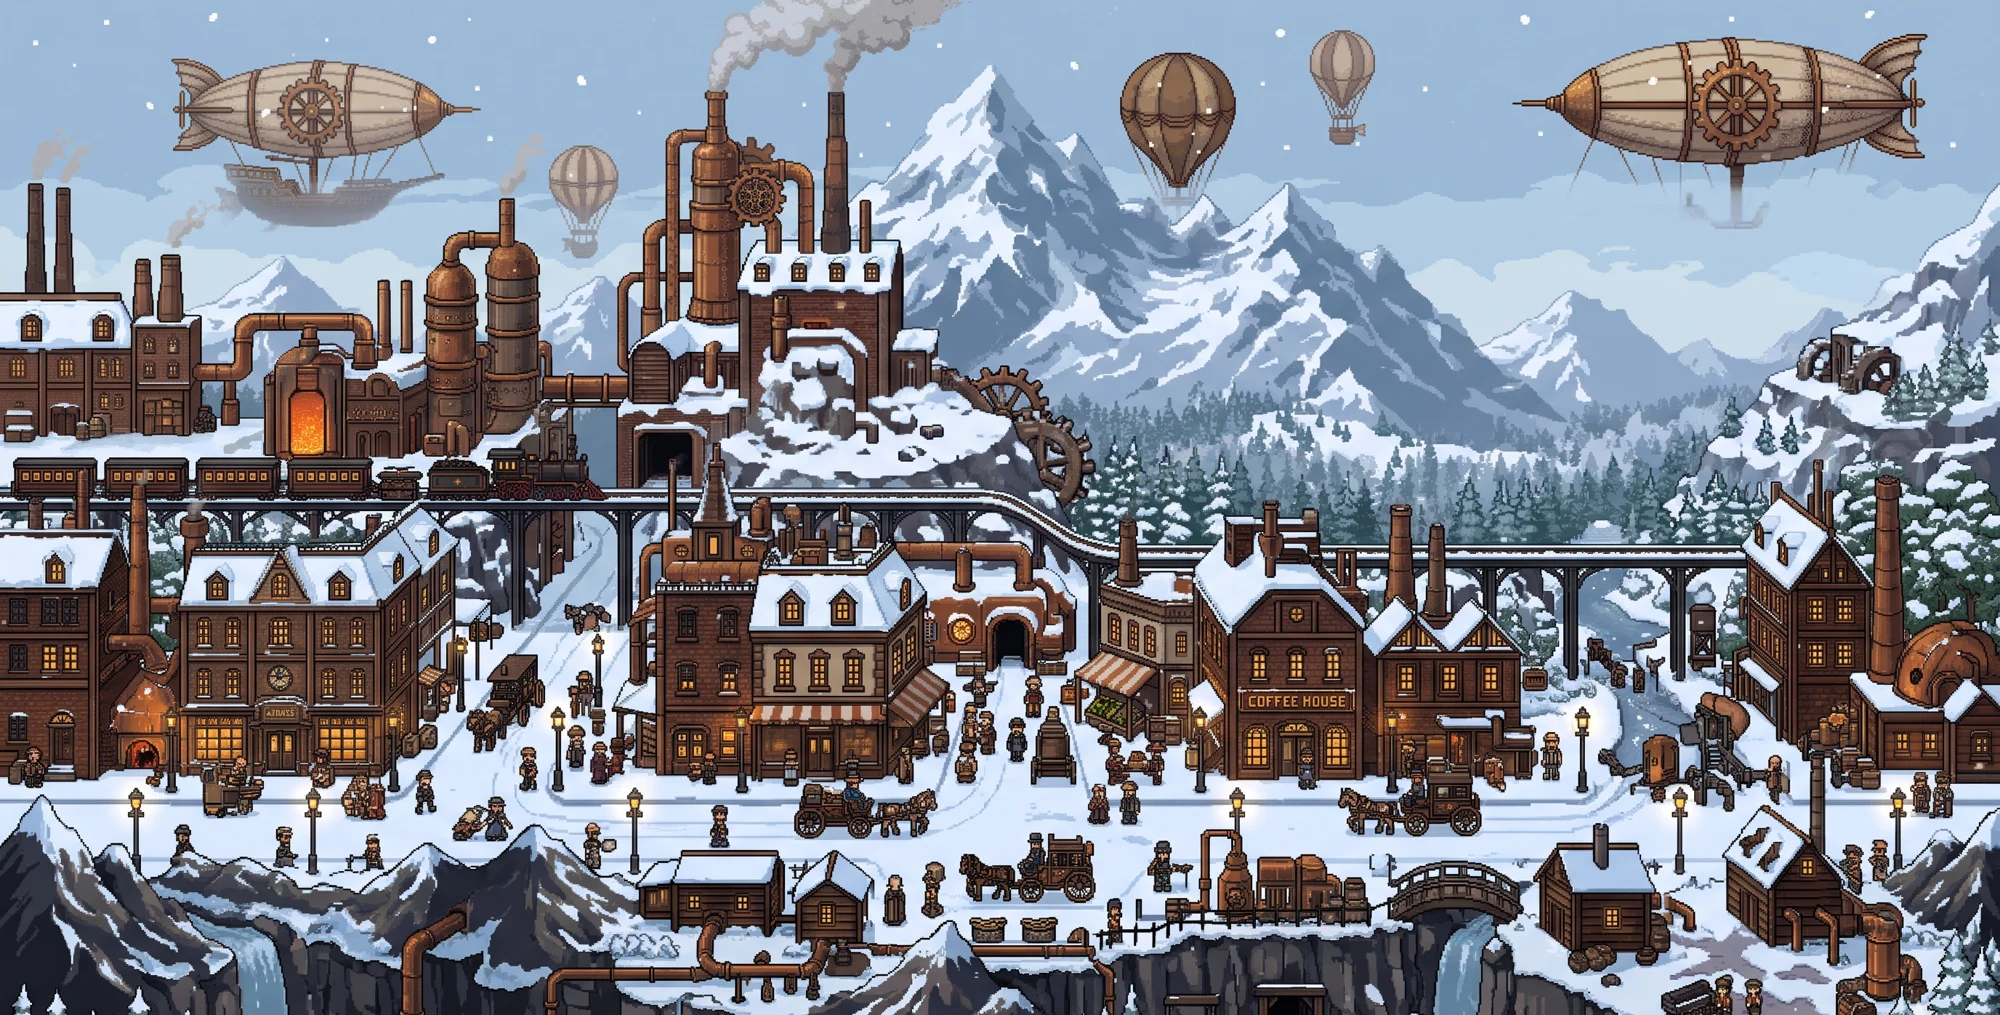
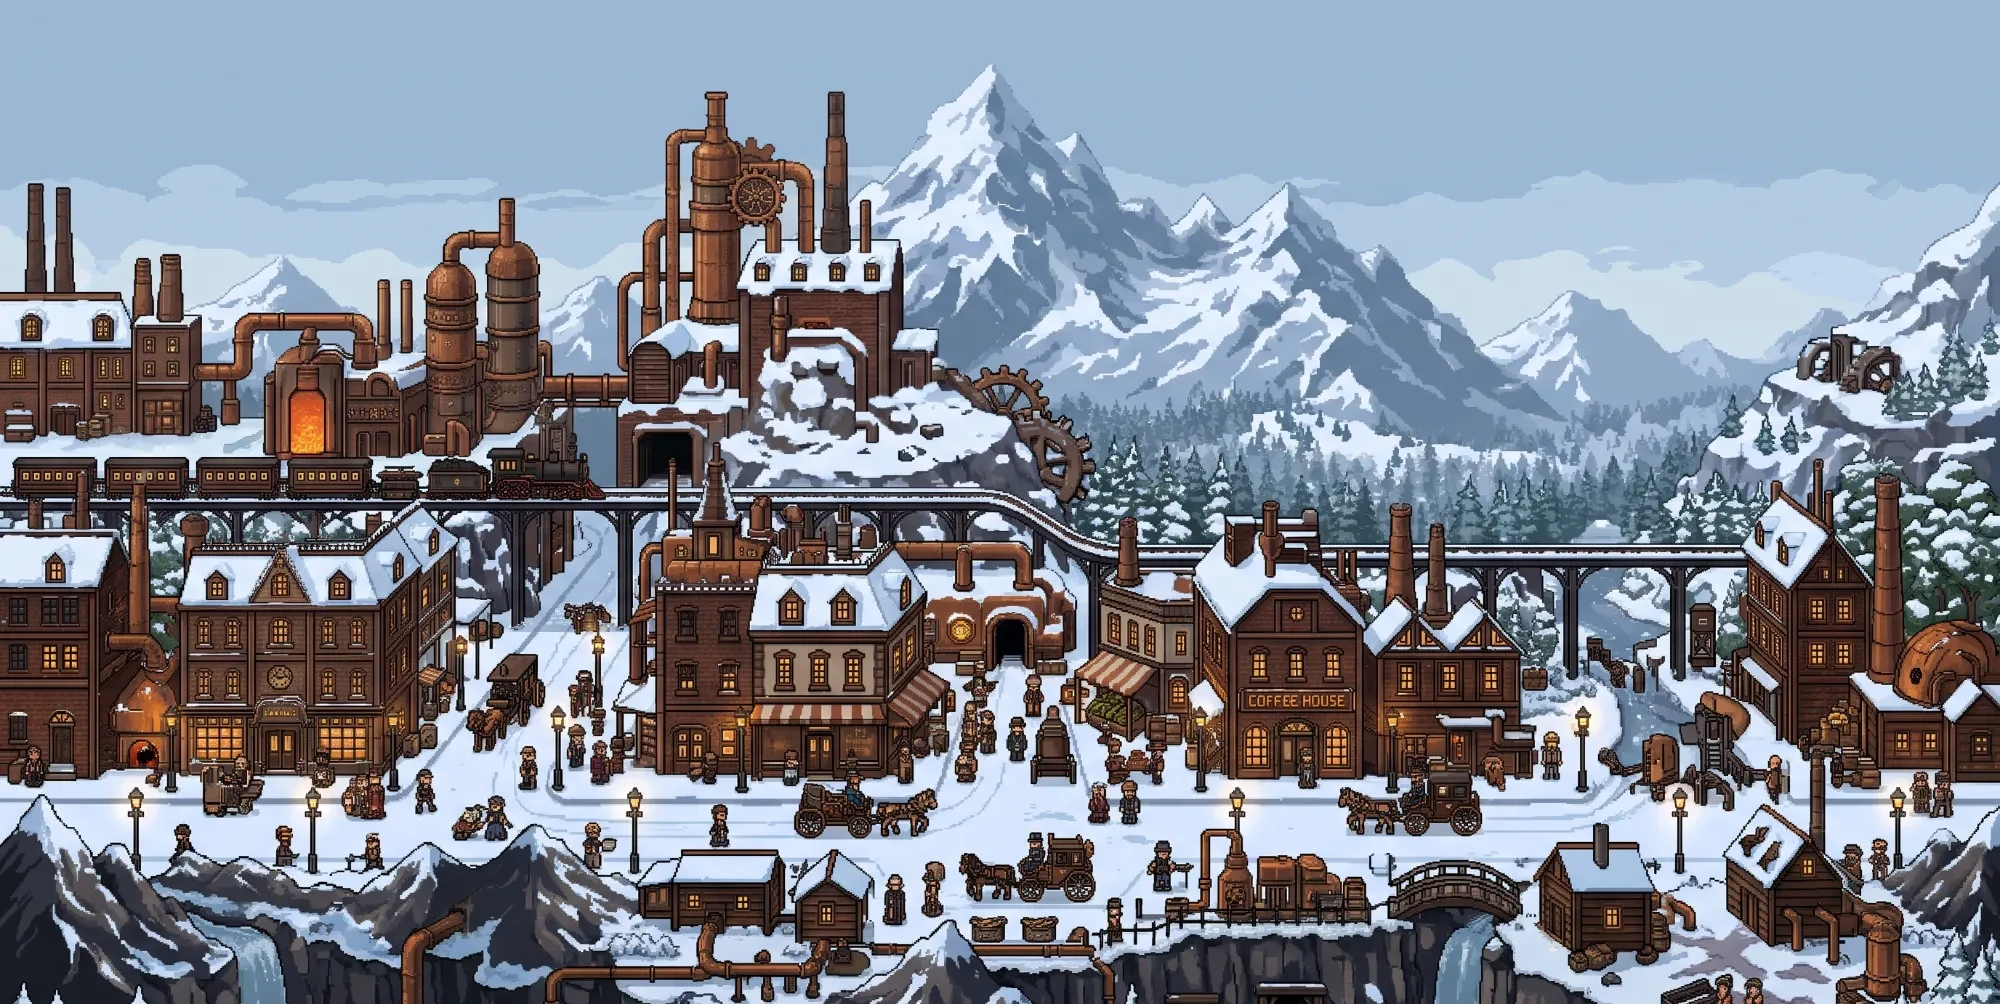
원경 그림 교체 + 굴뚝 연기·비행선·열기구·원경 눈 애니메이션
- assets/bg/town_clear·town_snow 새 그림으로 교체 (워터마크 제거)
- 원경 굴뚝 좌표(맑음/눈 따로)에서 연기가 솟고 바람에 눕게
- 먼 하늘에 비행선 3척·열기구 2개가 천천히 지나감, 눈 오는 날 원경에도 잔눈
- 위쪽 여백을 원경 높이에 맞춰 자동 계산 (하늘이 잘리지 않게)

Claude-Session: https://claude.ai/code/session_01GLddWFGhu19UdYDuzdKUFY

diff --git a/js/town.js b/js/town.js
@@ -1,8 +1,20 @@
 // 가게 주변 스팀펑크 마을 풍경 — 필지 바깥 여백에 그리는 정적 배경 + 약간의 애니메이션
 // 좌표는 게임 격자(가게 좌상단 = 0,0) 기준. 여백 때문에 음수 좌표도 쓴다.
-const TOWN = { mx: 22, mt: 18, mb: 9 };
+const TOWN = {
+  mx: 22, mb: 9,
+  // 위쪽 여백: 원경 그림(장면 폭 ×1.18, 세로 비율 최대 0.56, 위 70% 사용)이 하늘까지 다 들어가게
+  get mt() { const W = Game.s ? Game.s.W : 14; return VISTA_GROUND + Math.ceil(0.7 * 1.18 * 0.56 * (W + 2 * this.mx)); },
+};
 // 원경 그림이 끝나고 코드로 그린 거리가 시작하는 줄 (가게 위쪽으로 몇 칸)
 const VISTA_GROUND = 4;
+
+// 원경 그림의 굴뚝 꼭대기 위치 (그림 가로·세로 비율 0~1). 맑음·눈 그림은 구도가 달라 따로 잡는다.
+const VISTA_CHIMNEYS = {
+  clear: [[.016, .163], [.031, .163], [.071, .232], [.084, .232], [.358, .081], [.418, .085], [.253, .18],
+    [.633, .169], [.957, .198], [.945, .423], [.562, .462], [.695, .456], [.715, .456]],
+  snow: [[.016, .184], [.031, .184], [.071, .256], [.084, .256], [.357, .094], [.418, .094], [.253, .2],
+    [.435, .2], [.56, .517], [.628, .507], [.70, .507], [.943, .47]],
+};
 
 const Town = {
   bg: null, key: '', chimneys: [], windows: [], ship: null, boat: null,
@@ -153,7 +165,8 @@ const Town = {
     // file:// 로 열면 브라우저가 픽셀 읽기를 막는다 → 날씨별 기본 색
     let haze = snowy ? '214,222,232' : '92,96,78', tone = snowy ? '176,186,200' : '120,104,84';
     try { haze = avg(g.getImageData(0, cropH - 6, VW, 6).data, 1); tone = avg(g.getImageData(0, 0, VW, cropH).data, 37); } catch (e) { /* 기본 색 사용 */ }
-    this._vista = { canvas: c, haze, tone, w: VW, h: cropH };
+    this._vista = { canvas: c, haze, tone, w: VW, h: cropH, fullH, snowy: !!snowy && !!Sprites.sheets.vista_snow };
+    this.vfx = null;
     this._vistaKey = key;
     return this._vista;
   },
@@ -170,6 +183,64 @@ const Town = {
     g.drawImage(v.canvas, Math.round(x), Math.round(y));
     // 그림 위로 남는 하늘: 그림 맨 윗줄 색으로 채움
     if (y > -this.oy()) { g.drawImage(v.canvas, 0, 0, v.w, 1, Math.round(x), -this.oy(), v.w, Math.ceil(y + this.oy()) + 1); }
+    this.drawVistaFx(g, Math.round(x), Math.round(y));
+  },
+
+  // ───────── 원경 움직임: 굴뚝 연기, 먼 비행선·열기구, 먼 눈 ─────────
+  // 모두 원경 그림 좌표로 갖고 있다가 그림과 같은 위치(시차 포함)에 그린다
+  initVistaFx() {
+    const v = this._vista, R = this.rng(77);
+    this.vfx = {
+      smoke: [],
+      ships: [0, 1, 2].map(i => ({ kind: 'ship', x: R() * v.w, y: v.fullH * (0.04 + i * 0.045), sc: 0.32 + i * 0.1, sp: (5 + R() * 6) * (i % 2 ? -1 : 1) })),
+      balloons: [0, 1].map(i => ({ kind: 'balloon', x: R() * v.w, y: v.fullH * (0.08 + R() * 0.08), sp: 1.5 + R() * 2, ph: R() * 6, c: i ? [PAL.red2, PAL.cr1] : [PAL.c2, PAL.b3] })),
+      flakes: Array.from({ length: 160 }, () => ({ x: R() * v.w, y: R() * v.h, s: R() })),
+      last: performance.now(),
+    };
+  },
+  drawVistaFx(g, ox, oy) {
+    const v = this._vista; if (!v) return;
+    if (!this.vfx) this.initVistaFx();
+    const f = this.vfx, now = performance.now(), dt = Math.min(0.1, (now - f.last) / 1000); f.last = now;
+    const P = pen(g), t = now / 1000, snow = v.snowy;
+    const wind = Game.hasEvent('blizzard') ? 22 : snow ? 8 : 4;
+    // 비행선·열기구 (그림 하늘 위쪽)
+    g.save(); g.globalAlpha = 0.9;
+    for (const sh of f.ships) {
+      sh.x += sh.sp * dt; const L = 64 * sh.sc;
+      if (sh.sp > 0 && sh.x > v.w + 10) sh.x = -L - 10; if (sh.sp < 0 && sh.x < -L - 10) sh.x = v.w + 10;
+      const bx = Math.round(ox + sh.x), by = Math.round(oy + sh.y + Math.sin(t * 0.4 + sh.sc * 9) * 2);
+      if (sh.sp < 0) { g.save(); g.translate(bx * 2 + L, 0); g.scale(-1, 1); this.airship(P, bx, by, sh.sc); g.restore(); }
+      else this.airship(P, bx, by, sh.sc);
+    }
+    for (const b of f.balloons) {
+      b.x += b.sp * dt; if (b.x > v.w + 10) b.x = -10;
+      const bx = Math.round(ox + b.x), by = Math.round(oy + b.y + Math.sin(t * 0.6 + b.ph) * 3);
+      P.ellipse(bx, by, 4, 5, PAL.k); P.ellipse(bx, by, 3, 4, b.c[0]); P.r(bx - 1, by - 4, 2, 8, b.c[1]); P.p(bx - 2, by - 2, PAL.wh);
+      P.p(bx - 2, by + 5, PAL.k); P.p(bx + 2, by + 5, PAL.k); P.r(bx - 1, by + 7, 3, 2, PAL.w1);
+    }
+    g.restore();
+    // 굴뚝 연기: 솟아오르며 커지고 옅어지다 바람에 눕는다
+    const chims = VISTA_CHIMNEYS[snow ? 'snow' : 'clear'];
+    for (const [nx, ny] of chims) if (Math.random() < dt * 1.6) f.smoke.push({ x: nx * v.w + (Math.random() - .5) * 2, y: ny * v.fullH, vx: (Math.random() - .5) * 2, vy: -6 - Math.random() * 4, life: 0, max: 5 + Math.random() * 3, r: 1.5 });
+    const col = snow ? '232,234,240' : '205,192,175';
+    for (const p of f.smoke) {
+      p.life += dt; p.vx += wind * 0.12 * dt; p.vy *= 1 - 0.25 * dt;
+      p.x += p.vx * dt; p.y += p.vy * dt; p.r += 1.3 * dt;
+      const a = Math.max(0, 0.55 * (1 - p.life / p.max)) * Math.min(1, p.life * 3);
+      g.fillStyle = `rgba(${col},${a.toFixed(3)})`;
+      g.beginPath(); g.arc(ox + p.x, oy + p.y, p.r, 0, Math.PI * 2); g.fill();
+    }
+    f.smoke = f.smoke.filter(p => p.life < p.max && p.y > -20);
+    // 먼 눈: 가까운 눈보다 잘고 느리게
+    if (snow || Game.s.weather === 'snow' || Game.hasEvent('blizzard')) {
+      g.fillStyle = 'rgba(255,255,255,0.75)';
+      for (const fl of f.flakes) {
+        fl.y += (6 + fl.s * 6) * dt; fl.x += (wind * 0.6 + Math.sin(t + fl.s * 7) * 2) * dt;
+        if (fl.y > v.h) { fl.y = -2; fl.x = Math.random() * v.w; } if (fl.x > v.w) fl.x -= v.w;
+        g.fillRect(Math.round(ox + fl.x), Math.round(oy + fl.y), 1, 1);
+      }
+    }
   },
 
   roofTile(kind, snowy) {

diff --git a/README.md b/README.md
@@ -34,7 +34,7 @@
 
 ### 마을과 카메라
 
-- 가게 뒤로 원경 그림(assets/bg, 맑음·눈 버전)이 시차 스크롤로 깔리고, 안개 띠로 가까운 거리와 이어집니다. 가까운 곳에는 이웃 가게들, 필지별 앞 풍경(운하와 증기선 / 비행선 정박장 / 뒷골목 지붕들), 하늘을 지나는 비행선, 밤에 켜지는 창문.
+- 가게 뒤로 원경 그림(assets/bg, 맑음·눈 버전)이 시차 스크롤로 깔리고, 안개 띠로 가까운 거리와 이어집니다. 원경 굴뚝에서 연기가 나고, 먼 하늘에 비행선·열기구가 지나가며, 눈 오는 날은 원경에도 잔눈이 내립니다 (굴뚝 위치는 js/town.js 의 VISTA_CHIMNEYS). 가까운 곳에는 이웃 가게들, 필지별 앞 풍경(운하와 증기선 / 비행선 정박장 / 뒷골목 지붕들), 하늘을 지나는 비행선, 밤에 켜지는 창문.
 - 눈 오는 날은 땅·지붕·가게 벽에 눈이 쌓이고(눈보라면 빠르게, 맑으면 녹음), 돌풍에 눈이 휘날립니다.
 - 작동 중인 보일러·조리기구·라디에이터 주변에 온기와 아지랑이가 보입니다.
 - 건물은 잘린 벽 단면을 진하게, 외곽선을 둘러 표시하고, 건물 밖 마을은 살짝 흐리고 어둡게 그려 안팎이 구분됩니다.
